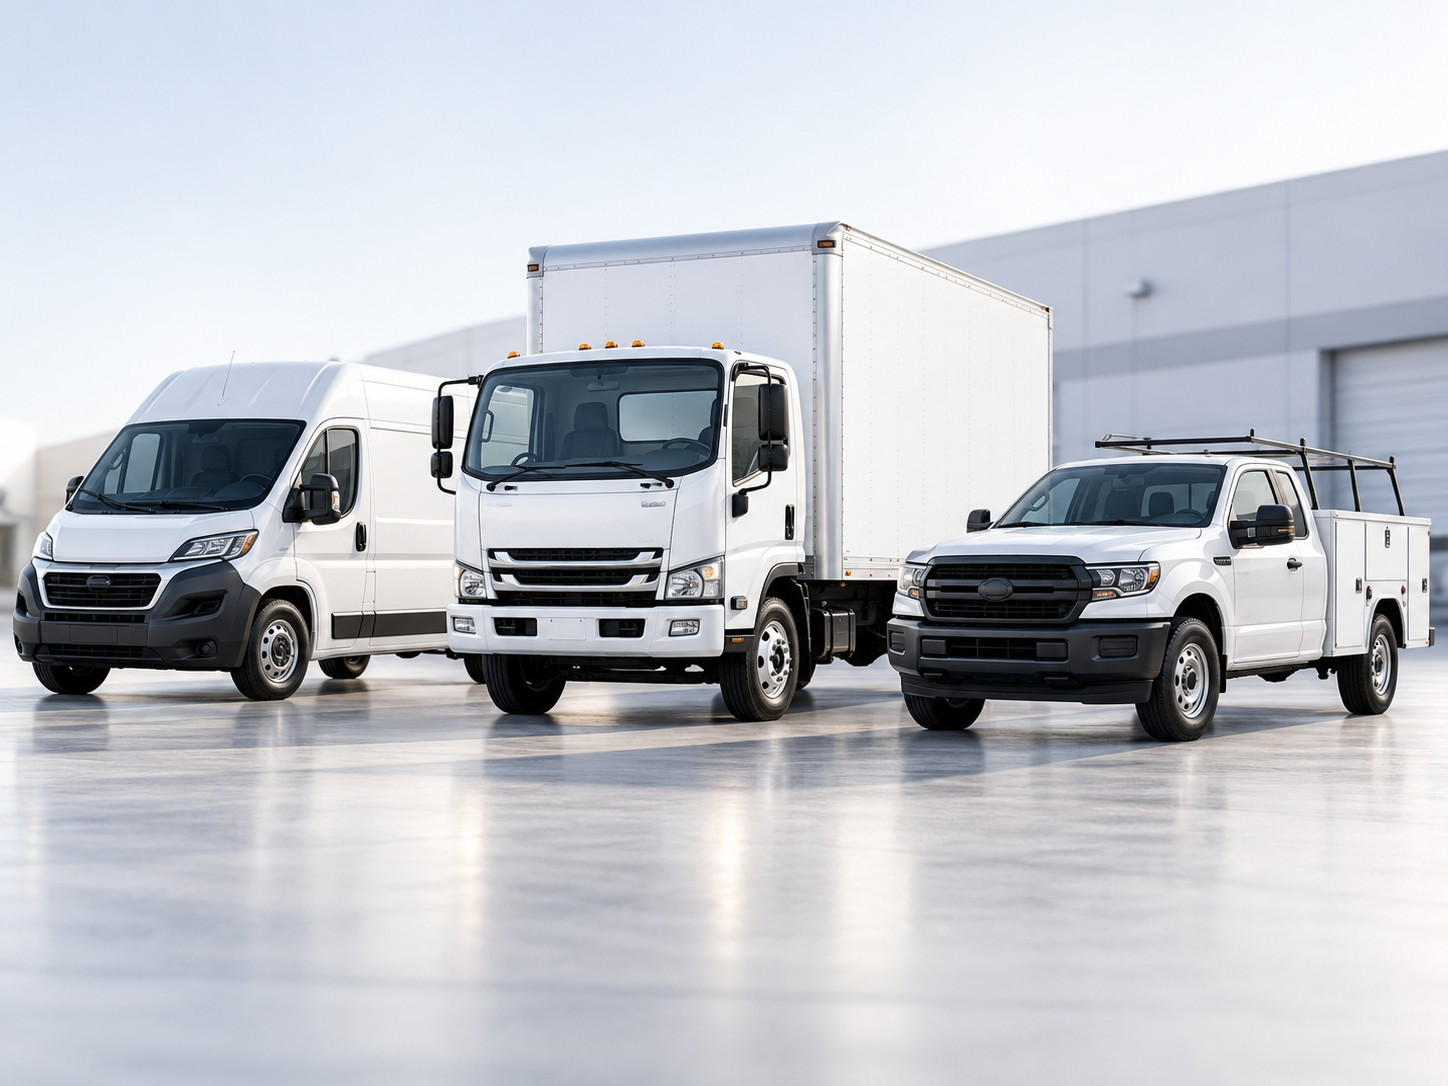
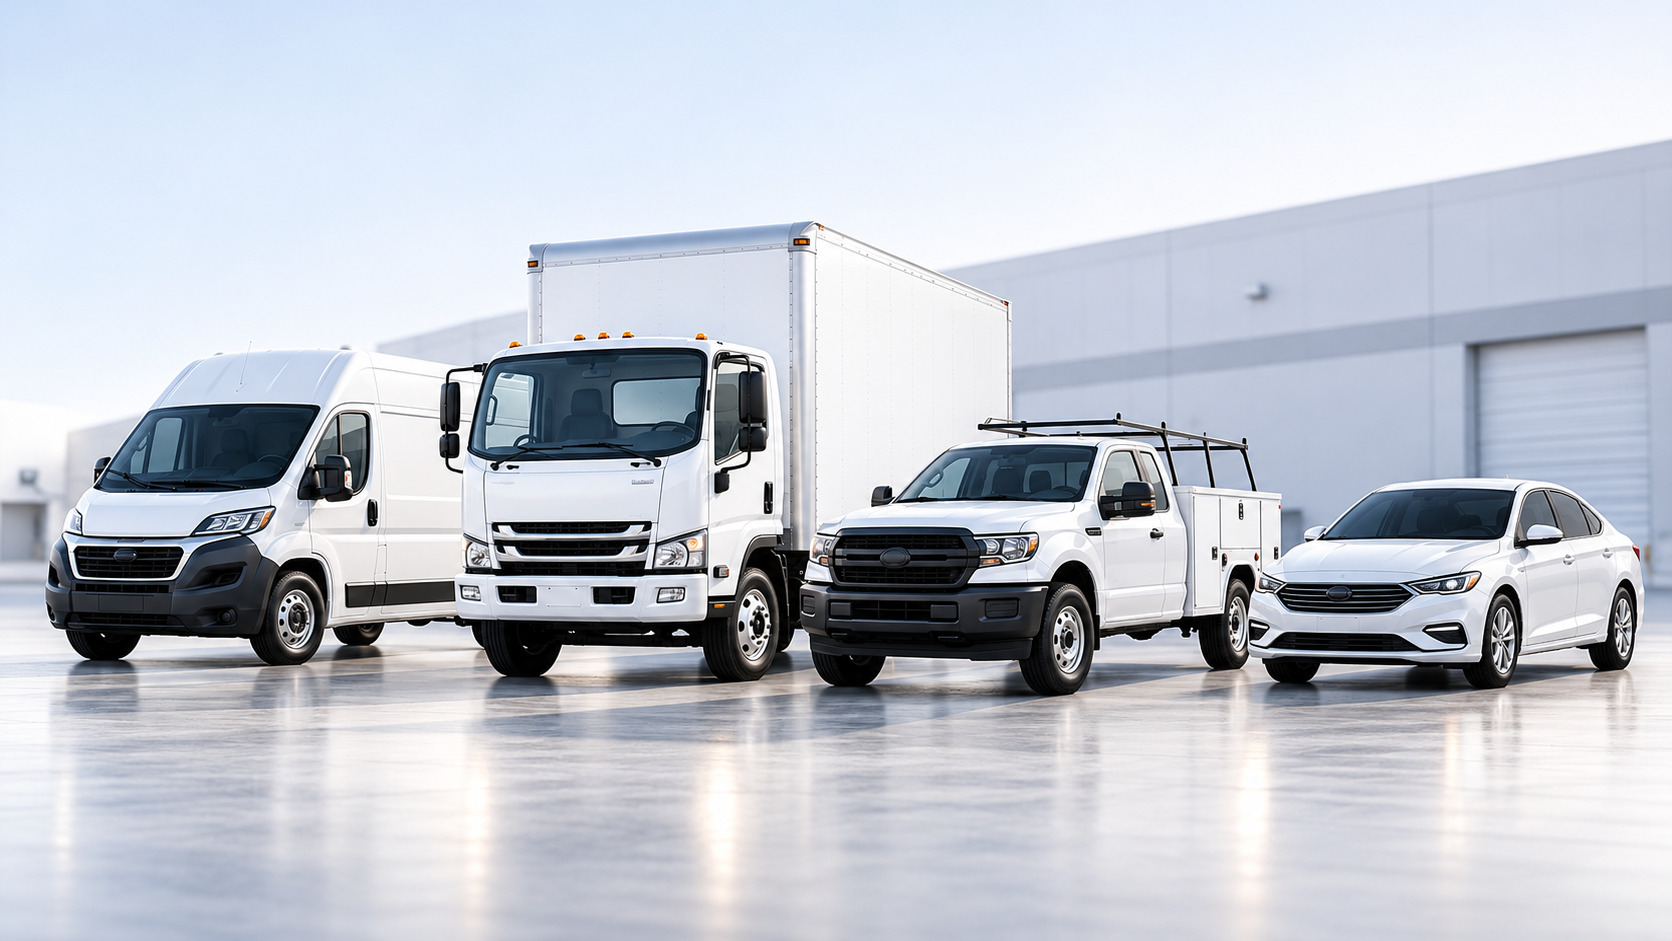
Actualizacion imagen transporte con sedan

diff --git a/equipo-transporte.html b/equipo-transporte.html
@@ -4,13 +4,13 @@
 <meta charset="utf-8">
 <meta name="viewport" content="width=device-width, initial-scale=1">
 <title>Arrendamiento de vehículos y flotillas | Tangelo</title>
-<meta name="description" content="Arriende vehículos utilitarios, de carga, vans y flotillas con renta fija y plazos de hasta 48 meses. Arrendamiento puro de transporte para empresas.">
+<meta name="description" content="Arriende vehículos utilitarios, de carga, vans y flotillas con renta fija y plazos flexibles. Arrendamiento puro de transporte para empresas.">
 <link rel="canonical" href="https://www.tangelo.mx/equipo-transporte">
 <meta property="og:type" content="website">
 <meta property="og:locale" content="es_MX">
 <meta property="og:site_name" content="Tangelo">
 <meta property="og:title" content="Arrendamiento de vehículos y flotillas | Tangelo">
-<meta property="og:description" content="Arriende vehículos utilitarios, de carga, vans y flotillas con renta fija y plazos de hasta 48 meses. Arrendamiento puro de transporte para empresas.">
+<meta property="og:description" content="Arriende vehículos utilitarios, de carga, vans y flotillas con renta fija y plazos flexibles. Arrendamiento puro de transporte para empresas.">
 <meta property="og:url" content="https://www.tangelo.mx/equipo-transporte">
 <meta property="og:image" content="https://www.tangelo.mx/assets/img/og-tangelo.png">
 <meta name="theme-color" content="#04142E">
@@ -108,14 +108,14 @@
     <div>
     <span class="etiqueta">Arrendamiento de equipo de transporte</span>
     <h1>Las unidades que mueven su negocio, <span>sin descapitalizarse.</span></h1>
-    <p class="lead">Crezca su flotilla de reparto, carga o traslado de personal con rentas fijas y plazos de hasta 48 meses, sin comprometer su capital de trabajo.</p>
+    <p class="lead">Crezca su flotilla de reparto, carga, autos utilitarios o traslado de personal con rentas fijas y plazos flexibles, sin comprometer su capital de trabajo.</p>
     <div class="acciones">
       <a class="btn btn--primario" href="contacto.html?equipo=transporte">Cotizar equipo de transporte <svg viewBox="0 0 24 24" fill="none" stroke="currentColor" stroke-width="1.8" stroke-linecap="round" stroke-linejoin="round" aria-hidden="true"><path d="M5 12h14"/><path d="m13 6 6 6-6 6"/></svg></a>
       <a class="btn btn--whatsapp" href="https://wa.me/525549812525" target="_blank" rel="noopener"><svg viewBox="0 0 24 24" fill="currentColor" aria-hidden="true"><path d="M17.5 14.4c-.3-.1-1.8-.9-2-1-.3-.1-.5-.1-.7.1-.2.3-.8 1-.9 1.2-.2.2-.3.2-.6.1-.3-.1-1.3-.5-2.4-1.5-.9-.8-1.5-1.8-1.7-2.1-.2-.3 0-.5.1-.6l.4-.5c.2-.2.2-.3.3-.5.1-.2 0-.4 0-.5l-.9-2.2c-.2-.6-.5-.5-.7-.5h-.6c-.2 0-.5.1-.8.4-.3.3-1 1-1 2.5s1.1 2.9 1.2 3.1c.1.2 2.1 3.2 5.1 4.5.7.3 1.3.5 1.7.6.7.2 1.4.2 1.9.1.6-.1 1.8-.7 2-1.4.2-.7.2-1.3.2-1.4-.1-.1-.3-.2-.6-.3ZM12 21.8c-1.8 0-3.5-.5-5-1.4l-.4-.2-3.7 1 1-3.6-.2-.4A9.8 9.8 0 0 1 12 2.2 9.8 9.8 0 0 1 21.8 12 9.8 9.8 0 0 1 12 21.8Zm8.4-18.2A11.8 11.8 0 0 0 1.8 17.9L.1 24l6.3-1.6A11.8 11.8 0 0 0 23.8 12c0-3.2-1.2-6.1-3.4-8.4Z"/></svg> WhatsApp</a>
     </div>
     </div>
-    <div class="hero-interior-media">
-      <img src="assets/img/equipo-transporte-realista.jpg" alt="Equipo de transporte empresarial" onerror="this.style.display='none'">
+    <div class="hero-interior-media" style="display:flex;align-items:center;justify-content:center;overflow:hidden;background:#eaf0f8;">
+      <img src="assets/img/equipo-transporte-realista.jpg?v=20261103-sedan-derecha" alt="Cuatro vehículos empresariales blancos: van, camión de carga, pickup de servicio y sedán al extremo derecho" style="display:block;width:100%;height:auto;min-height:0;max-height:440px;object-fit:contain;object-position:center;" onerror="this.style.display='none'">
     </div>
   </div>
 </section>
@@ -138,7 +138,7 @@
 
 <section class="seccion seccion--suave">
   <div class="contenedor">
-    <div class="encabezado-seccion"><span class="etiqueta">Beneficios</span><h2>Lo que gana su negocio</h2></div>
+    <div class="encabezado-seccion"><span class="etiqueta">Beneficios</span><h2>¿Cuáles son sus beneficios?</h2></div>
     <div class="rejilla rejilla--4"><div class="tarjeta"><div class="icono icono--naranja"><svg viewBox="0 0 24 24" fill="none" stroke="currentColor" stroke-width="1.8" stroke-linecap="round" stroke-linejoin="round" aria-hidden="true"><rect x="3" y="6" width="18" height="14" rx="2"/><path d="M3 10h18"/><path d="M16 15h2"/></svg></div><h3>Crezca su flotilla</h3><p>Agregue unidades sin desembolsar su valor total.</p></div><div class="tarjeta"><div class="icono icono--naranja"><svg viewBox="0 0 24 24" fill="none" stroke="currentColor" stroke-width="1.8" stroke-linecap="round" stroke-linejoin="round" aria-hidden="true"><path d="M21 12a9 9 0 0 1-15.5 6.2L3 16"/><path d="M3 21v-5h5"/><path d="M3 12a9 9 0 0 1 15.5-6.2L21 8"/><path d="M21 3v5h-5"/></svg></div><h3>Renovación periódica</h3><p>Al término del plazo, renueve con unidades más recientes.</p></div><div class="tarjeta"><div class="icono icono--naranja"><svg viewBox="0 0 24 24" fill="none" stroke="currentColor" stroke-width="1.8" stroke-linecap="round" stroke-linejoin="round" aria-hidden="true"><path d="M3 3v18h18"/><path d="m7 15 4-4 3 3 6-6"/></svg></div><h3>Renta fija</h3><p>Planee sus costos de operación con certeza durante todo el contrato.</p></div><div class="tarjeta"><div class="icono icono--naranja"><svg viewBox="0 0 24 24" fill="none" stroke="currentColor" stroke-width="1.8" stroke-linecap="round" stroke-linejoin="round" aria-hidden="true"><circle cx="12" cy="8" r="4"/><path d="M4 21c0-4 3.5-7 8-7s8 3 8 7"/></svg></div><h3>Un solo asesor</h3><p>Una persona que conoce su flotilla y le acompaña en cada unidad.</p></div></div>
   </div>
 </section>
@@ -153,9 +153,9 @@
       </div>
       <ol class="recorrido">
         <li><div class="icono"><svg viewBox="0 0 24 24" fill="none" stroke="currentColor" stroke-width="1.8" stroke-linecap="round" stroke-linejoin="round" aria-hidden="true"><circle cx="12" cy="12" r="9"/><circle cx="12" cy="12" r="5"/><circle cx="12" cy="12" r="1"/></svg></div><div><h3>Primera cotización</h3><p>Un especialista comercial entiende su necesidad y le presenta una propuesta personalizada.</p></div></li>
-        <li><div class="icono"><svg viewBox="0 0 24 24" fill="none" stroke="currentColor" stroke-width="1.8" stroke-linecap="round" stroke-linejoin="round" aria-hidden="true"><path d="M14 3H6a2 2 0 0 0-2 2v14a2 2 0 0 0 2 2h12a2 2 0 0 0 2-2V9z"/><path d="M14 3v6h6"/><path d="M8 17c1.5-2 2.5-2 3.5 0s2 2 3.5 0"/></svg></div><div><h3>Firma y entrega</h3><p>Nuestro equipo de operaciones le guía con la documentación y coordina la entrega de su equipo.</p></div></li>
+        <li><div class="icono"><svg viewBox="0 0 24 24" fill="none" stroke="currentColor" stroke-width="1.8" stroke-linecap="round" stroke-linejoin="round" aria-hidden="true"><path d="M14 3H6a2 2 0 0 0-2 2v14a2 2 0 0 0 2 2h12a2 2 0 0 0 2-2V9z"/><path d="M14 3v6h6"/><path d="M8 17c1.5-2 2.5-2 3.5 0s2 2 3.5 0"/></svg></div><div><h3>Firma y entrega</h3><p>Nuestro equipo le guía con la documentación y coordina la entrega de su equipo.</p></div></li>
         <li><div class="icono"><svg viewBox="0 0 24 24" fill="none" stroke="currentColor" stroke-width="1.8" stroke-linecap="round" stroke-linejoin="round" aria-hidden="true"><circle cx="12" cy="8" r="4"/><path d="M4 21c0-4 3.5-7 8-7s8 3 8 7"/></svg></div><div><h3>Durante su contrato</h3><p>Durante el contrato, nuestro equipo de atención da seguimiento a sus dudas y solicitudes.</p></div></li>
-        <li><div class="icono"><svg viewBox="0 0 24 24" fill="none" stroke="currentColor" stroke-width="1.8" stroke-linecap="round" stroke-linejoin="round" aria-hidden="true"><path d="M21 12a9 9 0 0 1-15.5 6.2L3 16"/><path d="M3 21v-5h5"/><path d="M3 12a9 9 0 0 1 15.5-6.2L21 8"/><path d="M21 3v5h-5"/></svg></div><div><h3>Término del plazo</h3><p>Al término del plazo, un especialista le orienta sobre las opciones de renovar, devolver o comprar.</p></div></li>
+        <li><div class="icono"><svg viewBox="0 0 24 24" fill="none" stroke="currentColor" stroke-width="1.8" stroke-linecap="round" stroke-linejoin="round" aria-hidden="true"><path d="M21 12a9 9 0 0 1-15.5 6.2L3 16"/><path d="M3 21v-5h5"/><path d="M3 12a9 9 0 0 1 15.5-6.2L21 8"/><path d="M21 3v5h-5"/></svg></div><div><h3>Término del plazo</h3><p>Al término del plazo se le orienta sobre las opciones de renovar, devolver o comprar.</p></div></li>
       </ol>
     </div>
   </div>
@@ -168,7 +168,7 @@
       <h2>Dudas sobre equipo de transporte</h2>
       <a class="btn btn--secundario" href="preguntas-frecuentes.html">Ver todas las preguntas</a>
     </div>
-    <div class="faq"><details><summary>¿Las rentas de vehículos son deducibles en su totalidad?</summary><div><p>Depende del tipo de unidad. Para automóviles, la Ley del Impuesto sobre la Renta establece un monto máximo deducible diario por la renta. Le recomendamos confirmar el tratamiento de su caso con su asesor fiscal.</p></div></details><details><summary>¿Puedo arrendar varias unidades a la vez?</summary><div><p>Sí. Podemos evaluar el arrendamiento de varias unidades y presentarle una propuesta integral para su flotilla.</p></div></details><details><summary>¿Qué plazos manejan?</summary><div><p>Ofrecemos plazos flexibles de hasta 48 meses, que definimos con usted según el tipo de equipo y su flujo de efectivo.</p></div></details><details><summary>¿Qué pasa al terminar el plazo?</summary><div><p>Usted tiene tres opciones:</p><ul><li><strong>Renovar</strong> con equipo nuevo y mantener su operación actualizada.</li><li><strong>Devolver</strong> el equipo.</li><li><strong>Comprarlo</strong> a valor de mercado o al valor de salida que se haya pactado desde el inicio del contrato.</li></ul></div></details></div>
+    <div class="faq"><details><summary>¿Las rentas de vehículos son deducibles en su totalidad?</summary><div><p>Depende del tipo de unidad. Para automóviles, la Ley del Impuesto sobre la Renta establece un monto máximo deducible diario por la renta. Le recomendamos confirmar el tratamiento de su caso con su asesor fiscal.</p></div></details><details><summary>¿Puedo arrendar varias unidades a la vez?</summary><div><p>Sí. Podemos evaluar el arrendamiento de varias unidades y presentarle una propuesta integral para su flotilla.</p></div></details><details><summary>¿Qué plazos manejan?</summary><div><p>Ofrecemos plazos flexibles, que definimos con usted según el tipo de equipo y su flujo de efectivo.</p></div></details><details><summary>¿Qué pasa al terminar el plazo?</summary><div><p>Usted tiene tres opciones:</p><ul><li><strong>Renovar</strong> con equipo nuevo y mantener su operación actualizada.</li><li><strong>Devolver</strong> el equipo.</li><li><strong>Comprarlo</strong> a valor de mercado o al valor de salida que se haya pactado desde el inicio del contrato.</li></ul></div></details></div>
   </div>
 </section>
 <section class="seccion" style="padding-top:0"><div class="contenedor">

diff --git a/index.html b/index.html
@@ -4,13 +4,13 @@
 <meta charset="utf-8">
 <meta name="viewport" content="width=device-width, initial-scale=1">
 <title>Tangelo | Arrendamiento puro de equipo médico, TI y transporte</title>
-<meta name="description" content="Arriende equipo médico, de TI y de transporte con rentas fijas y plazos de hasta 48 meses. Un asesor dedicado le acompaña de principio a fin.">
+<meta name="description" content="Arriende equipo médico, de TI y de transporte con rentas fijas y plazos flexibles. Un asesor dedicado le acompaña de principio a fin.">
 <link rel="canonical" href="https://www.tangelo.mx/">
 <meta property="og:type" content="website">
 <meta property="og:locale" content="es_MX">
 <meta property="og:site_name" content="Tangelo">
 <meta property="og:title" content="Tangelo | Arrendamiento puro de equipo médico, TI y transporte">
-<meta property="og:description" content="Arriende equipo médico, de TI y de transporte con rentas fijas y plazos de hasta 48 meses. Un asesor dedicado le acompaña de principio a fin.">
+<meta property="og:description" content="Arriende equipo médico, de TI y de transporte con rentas fijas y plazos flexibles. Un asesor dedicado le acompaña de principio a fin.">
 <meta property="og:url" content="https://www.tangelo.mx/">
 <meta property="og:image" content="https://www.tangelo.mx/assets/img/og-tangelo.png">
 <meta name="theme-color" content="#04142E">
@@ -102,6 +102,14 @@
   .banda--marino > .btn{align-self:stretch!important;text-align:center;justify-content:center;margin-right:0!important;}
 }
 </style>
+<style id="tangelo-flota-sedan-derecha">
+/* Mostrar los cuatro vehículos completos en la tarjeta de Transporte de Inicio. */
+.hero-activo--transporte img {
+  object-fit: contain !important;
+  object-position: center !important;
+  background-color: #eaf0f8;
+}
+</style>
 </head>
 <body>
 <a class="saltar" href="#contenido">Saltar al contenido</a>
@@ -139,7 +147,7 @@
         <span>Equipo de TI</span>
       </a>
       <a class="hero-activo hero-activo--transporte" href="equipo-transporte.html">
-        <img src="assets/img/hero-transporte.jpg" alt="Vehículos comerciales y equipo de transporte">
+        <img src="assets/img/hero-transporte.jpg?v=20261103-sedan-derecha" alt="Vehículos comerciales y equipo de transporte">
         <span>Transporte</span>
       </a>
     </div>
@@ -164,7 +172,7 @@
     <div class="rejilla rejilla--3"><a class="tarjeta tarjeta--enlace" href="equipo-medico.html">
         <div class="icono icono--coral"><svg viewBox="0 0 24 24" fill="none" stroke="currentColor" stroke-width="1.8" stroke-linecap="round" stroke-linejoin="round" aria-hidden="true"><path d="M19 14c1.5-1.5 3-3.2 3-5.5A5.5 5.5 0 0 0 16.5 3c-1.8 0-3 .5-4.5 2-1.5-1.5-2.7-2-4.5-2A5.5 5.5 0 0 0 2 8.5c0 2.3 1.5 4 3 5.5l7 7Z"/><path d="M3.2 12h3.3l2-3 3 6 2-3h3.3"/></svg></div>
         <h3>Equipo médico</h3>
-        <p>Actualice su consultorio, clínica, laboratorio u hospital con una renta mensual fija y plazos de hasta 48 meses.</p>
+        <p>Actualice su consultorio, clínica, laboratorio u hospital con una renta mensual fija y plazos flexibles.</p>
         <span class="mas">Conocer más <svg viewBox="0 0 24 24" fill="none" stroke="currentColor" stroke-width="1.8" stroke-linecap="round" stroke-linejoin="round" aria-hidden="true"><path d="M5 12h14"/><path d="m13 6 6 6-6 6"/></svg></span>
       </a><a class="tarjeta tarjeta--enlace" href="equipo-ti.html">
         <div class="icono "><svg viewBox="0 0 24 24" fill="none" stroke="currentColor" stroke-width="1.8" stroke-linecap="round" stroke-linejoin="round" aria-hidden="true"><rect x="3" y="4" width="18" height="12" rx="2"/><path d="M2 20h20"/></svg></div>
@@ -174,7 +182,7 @@
       </a><a class="tarjeta tarjeta--enlace" href="equipo-transporte.html">
         <div class="icono icono--naranja"><svg viewBox="0 0 24 24" fill="none" stroke="currentColor" stroke-width="1.8" stroke-linecap="round" stroke-linejoin="round" aria-hidden="true"><path d="M3 6h11v10H3z"/><path d="M14 9h4l3 3v4h-7"/><circle cx="7" cy="18" r="2"/><circle cx="17" cy="18" r="2"/></svg></div>
         <h3>Equipo de transporte</h3>
-        <p>Crezca su flotilla de reparto, carga o traslado de personal con rentas fijas y plazos de hasta 48 meses, sin comprometer su capital de trabajo.</p>
+        <p>Crezca su flotilla de reparto, carga o traslado de personal con rentas fijas y plazos flexibles, sin comprometer su capital de trabajo.</p>
         <span class="mas">Conocer más <svg viewBox="0 0 24 24" fill="none" stroke="currentColor" stroke-width="1.8" stroke-linecap="round" stroke-linejoin="round" aria-hidden="true"><path d="M5 12h14"/><path d="m13 6 6 6-6 6"/></svg></span>
       </a></div>
   </div>
@@ -220,9 +228,9 @@
       </div>
       <ol class="recorrido">
         <li><div class="icono"><svg viewBox="0 0 24 24" fill="none" stroke="currentColor" stroke-width="1.8" stroke-linecap="round" stroke-linejoin="round" aria-hidden="true"><circle cx="12" cy="12" r="9"/><circle cx="12" cy="12" r="5"/><circle cx="12" cy="12" r="1"/></svg></div><div><h3>Primera cotización</h3><p>Un especialista comercial entiende su necesidad y le presenta una propuesta personalizada.</p></div></li>
-        <li><div class="icono"><svg viewBox="0 0 24 24" fill="none" stroke="currentColor" stroke-width="1.8" stroke-linecap="round" stroke-linejoin="round" aria-hidden="true"><path d="M14 3H6a2 2 0 0 0-2 2v14a2 2 0 0 0 2 2h12a2 2 0 0 0 2-2V9z"/><path d="M14 3v6h6"/><path d="M8 17c1.5-2 2.5-2 3.5 0s2 2 3.5 0"/></svg></div><div><h3>Firma y entrega</h3><p>Nuestro equipo de operaciones le guía con la documentación y coordina la entrega de su equipo.</p></div></li>
+        <li><div class="icono"><svg viewBox="0 0 24 24" fill="none" stroke="currentColor" stroke-width="1.8" stroke-linecap="round" stroke-linejoin="round" aria-hidden="true"><path d="M14 3H6a2 2 0 0 0-2 2v14a2 2 0 0 0 2 2h12a2 2 0 0 0 2-2V9z"/><path d="M14 3v6h6"/><path d="M8 17c1.5-2 2.5-2 3.5 0s2 2 3.5 0"/></svg></div><div><h3>Firma y entrega</h3><p>Nuestro equipo le guía con la documentación y coordina la entrega de su equipo.</p></div></li>
         <li><div class="icono"><svg viewBox="0 0 24 24" fill="none" stroke="currentColor" stroke-width="1.8" stroke-linecap="round" stroke-linejoin="round" aria-hidden="true"><circle cx="12" cy="8" r="4"/><path d="M4 21c0-4 3.5-7 8-7s8 3 8 7"/></svg></div><div><h3>Durante su contrato</h3><p>Durante el contrato, nuestro equipo de atención da seguimiento a sus dudas y solicitudes.</p></div></li>
-        <li><div class="icono"><svg viewBox="0 0 24 24" fill="none" stroke="currentColor" stroke-width="1.8" stroke-linecap="round" stroke-linejoin="round" aria-hidden="true"><path d="M21 12a9 9 0 0 1-15.5 6.2L3 16"/><path d="M3 21v-5h5"/><path d="M3 12a9 9 0 0 1 15.5-6.2L21 8"/><path d="M21 3v5h-5"/></svg></div><div><h3>Término del plazo</h3><p>Al término del plazo, un especialista le orienta sobre las opciones de renovar, devolver o comprar.</p></div></li>
+        <li><div class="icono"><svg viewBox="0 0 24 24" fill="none" stroke="currentColor" stroke-width="1.8" stroke-linecap="round" stroke-linejoin="round" aria-hidden="true"><path d="M21 12a9 9 0 0 1-15.5 6.2L3 16"/><path d="M3 21v-5h5"/><path d="M3 12a9 9 0 0 1 15.5-6.2L21 8"/><path d="M21 3v5h-5"/></svg></div><div><h3>Término del plazo</h3><p>Al término del plazo se le orienta sobre las opciones de renovar, devolver o comprar.</p></div></li>
       </ol>
     </div>
   </div>
@@ -249,7 +257,7 @@
       <p class="lead">Lo que más nos preguntan antes de arrendar.</p>
       <a class="btn btn--secundario" href="preguntas-frecuentes.html" style="margin-top:12px">Ver todas las preguntas</a>
     </div>
-    <div class="faq"><details><summary>¿Qué es el arrendamiento puro?</summary><div><p>Es un contrato en el que Tangelo adquiere el equipo que su negocio necesita y le otorga su uso a cambio de una renta mensual fija durante un plazo definido. Tangelo conserva la propiedad del equipo y usted lo aprovecha en su operación sin desembolsar su valor total.</p></div></details><details><summary>¿Qué plazos manejan?</summary><div><p>Ofrecemos plazos flexibles de hasta 48 meses, que definimos con usted según el tipo de equipo y su flujo de efectivo.</p></div></details><details><summary>¿Las rentas son deducibles de impuestos?</summary><div><p>Las rentas de arrendamiento puro pueden deducirse para efectos del ISR, en los términos de la Ley del Impuesto sobre la Renta, siempre que el equipo sea estrictamente indispensable para su actividad y cuente con el CFDI correspondiente. Algunos activos, como los automóviles, tienen límites de deducción. Le recomendamos confirmar su caso con su asesor fiscal.</p></div></details><details><summary>¿Qué pasa al terminar el plazo?</summary><div><p>Usted tiene tres opciones:</p><ul><li><strong>Renovar</strong> con equipo nuevo y mantener su operación actualizada.</li><li><strong>Devolver</strong> el equipo.</li><li><strong>Comprarlo</strong> a valor de mercado o al valor de salida que se haya pactado desde el inicio del contrato.</li></ul></div></details></div>
+    <div class="faq"><details><summary>¿Qué es el arrendamiento puro?</summary><div><p>Es un contrato en el que Tangelo adquiere el equipo que su negocio necesita y le otorga su uso a cambio de una renta mensual fija durante un plazo definido. Tangelo conserva la propiedad del equipo y usted lo aprovecha en su operación sin desembolsar su valor total.</p></div></details><details><summary>¿Qué plazos manejan?</summary><div><p>Ofrecemos plazos flexibles, que definimos con usted según el tipo de equipo y su flujo de efectivo.</p></div></details><details><summary>¿Las rentas son deducibles de impuestos?</summary><div><p>Las rentas de arrendamiento puro pueden deducirse para efectos del ISR, en los términos de la Ley del Impuesto sobre la Renta, siempre que el equipo sea estrictamente indispensable para su actividad y cuente con el CFDI correspondiente. Algunos activos, como los automóviles, tienen límites de deducción. Le recomendamos confirmar su caso con su asesor fiscal.</p></div></details><details><summary>¿Qué pasa al terminar el plazo?</summary><div><p>Usted tiene tres opciones:</p><ul><li><strong>Renovar</strong> con equipo nuevo y mantener su operación actualizada.</li><li><strong>Devolver</strong> el equipo.</li><li><strong>Comprarlo</strong> a valor de mercado o al valor de salida que se haya pactado desde el inicio del contrato.</li></ul></div></details></div>
   </div>
 </section>
 
